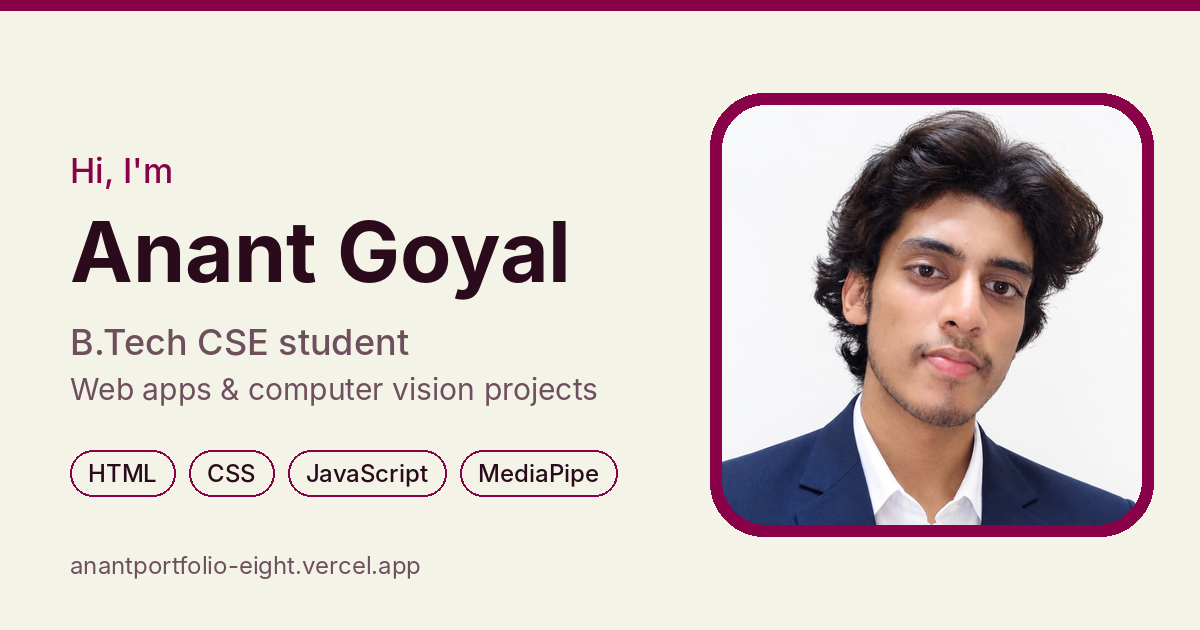
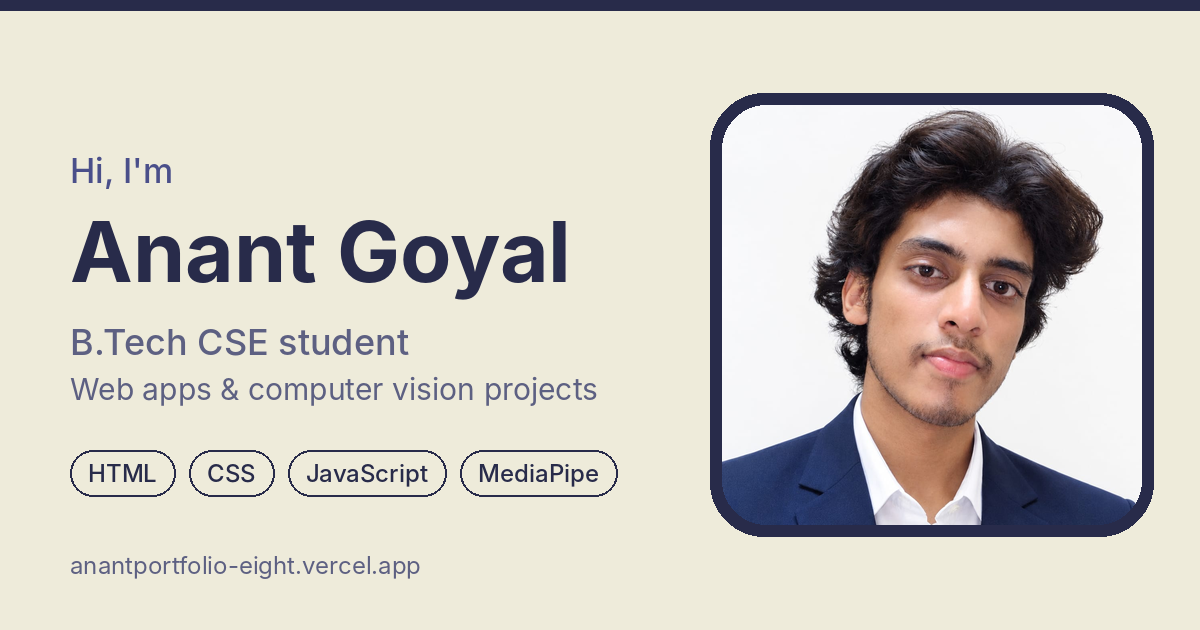
Switch palette to Midnight Indigo + Vanilla
Claude-Session: https://claude.ai/code/session_011E42H1WkRXJ2XLUoMEojoR

diff --git a/style.css b/style.css
@@ -1,31 +1,31 @@
-/* Palette: Cherry #890149 + Alabaster #F3F3E7 */
+/* Palette: Midnight Indigo #282B4A + Vanilla #EEEBDA */
 :root,
 [data-theme="dark"]{
-  --bg:#1a0711; --bg2:#26101b; --text:#f3f3e7; --muted:#c7aebb;
-  --accent:#e8628f; --accent2:#d9a7b8; --accent3:#c9a24a; --border:#43202f;
-  --accent-rgb:232,98,143; --accent2-rgb:217,167,184; --accent3-rgb:201,162,74;
-  --nav-bg:rgba(26,7,17,.85);
-  --tag-bg:#321725;
-  --bar-track:#321725;
-  --heat-empty:#321725;
+  --bg:#282b4a; --bg2:#32365c; --text:#eeebda; --muted:#b9b9cf;
+  --accent:#eeebda; --accent2:#a9aee0; --accent3:#d8b98a; --border:#434879;
+  --accent-rgb:238,235,218; --accent2-rgb:169,174,224; --accent3-rgb:216,185,138;
+  --nav-bg:rgba(40,43,74,.85);
+  --tag-bg:#3a3f6b;
+  --bar-track:#3a3f6b;
+  --heat-empty:#3a3f6b;
   --heat-1:#0e4429; --heat-2:#006d32; --heat-3:#26a641; --heat-4:#39d353;
-  --skel-base:#321725; --skel-shine:rgba(255,255,255,.06);
-  --btn-text:#1a0711; --btn-shadow:#8c2d55; --ghost-shadow:#33172a;
-  --h1-shadow:1px 1px 0 #6b1b43,2px 2px 0 #5c173a,3px 3px 0 #4d1331,4px 4px 0 #3f0f29,5px 8px 18px rgba(0,0,0,.55);
+  --skel-base:#3a3f6b; --skel-shine:rgba(255,255,255,.06);
+  --btn-text:#282b4a; --btn-shadow:#a9a68f; --ghost-shadow:#1f2140;
+  --h1-shadow:1px 1px 0 #4a4f8a,2px 2px 0 #40457b,3px 3px 0 #363a6b,4px 4px 0 #2d305b,5px 8px 18px rgba(0,0,0,.45);
   color-scheme:dark;
 }
 [data-theme="light"]{
-  --bg:#f3f3e7; --bg2:#fbfaf3; --text:#2a0b1b; --muted:#6e4f5e;
-  --accent:#890149; --accent2:#9e2a5e; --accent3:#a07a1e; --border:#ddd6c6;
-  --accent-rgb:137,1,73; --accent2-rgb:158,42,94; --accent3-rgb:160,122,30;
-  --nav-bg:rgba(243,243,231,.9);
-  --tag-bg:#ebe8d9;
-  --bar-track:#e6e2d2;
+  --bg:#eeebda; --bg2:#f7f5ea; --text:#282b4a; --muted:#5d6082;
+  --accent:#282b4a; --accent2:#4a4f8a; --accent3:#8a6d3b; --border:#d6d2ba;
+  --accent-rgb:40,43,74; --accent2-rgb:74,79,138; --accent3-rgb:138,109,59;
+  --nav-bg:rgba(238,235,218,.9);
+  --tag-bg:#e4e0c9;
+  --bar-track:#dcd8c2;
   --heat-empty:#ebedf0;
   --heat-1:#9be9a8; --heat-2:#40c463; --heat-3:#30a14e; --heat-4:#216e39;
-  --skel-base:#e6e2d2; --skel-shine:rgba(255,255,255,.7);
-  --btn-text:#f3f3e7; --btn-shadow:#5a0230; --ghost-shadow:#cfc8b6;
-  --h1-shadow:1px 1px 0 #ecd3dd,2px 2px 0 #e2bccb,3px 3px 0 #d6a5b8,4px 4px 0 #c88ea5,5px 8px 18px rgba(0,0,0,.08);
+  --skel-base:#dcd8c2; --skel-shine:rgba(255,255,255,.7);
+  --btn-text:#eeebda; --btn-shadow:#14162b; --ghost-shadow:#c9c5ac;
+  --h1-shadow:1px 1px 0 #d9d9e8,2px 2px 0 #c9cae0,3px 3px 0 #b9bbd8,4px 4px 0 #a9acd0,5px 8px 18px rgba(0,0,0,.08);
   color-scheme:light;
 }
 *{box-sizing:border-box;margin:0;padding:0}
@@ -261,7 +261,7 @@ html,body{overflow-x:clip}
 .photo-frame::before{content:"";position:absolute;inset:-14px;border:1.5px solid rgba(var(--accent-rgb),.28);border-radius:30px;transform:translateZ(-40px);pointer-events:none}
 .photo-frame img{transform:translateZ(24px);box-shadow:0 16px 30px rgba(0,0,0,.4)}
 .chip{position:absolute;padding:5px 12px;border-radius:999px;font-size:.78rem;font-weight:600;color:var(--text);
-  background:rgba(38,16,27,.88);border:1px solid rgba(var(--accent-rgb),.4);box-shadow:0 10px 22px rgba(0,0,0,.4);
+  background:rgba(50,54,92,.88);border:1px solid rgba(var(--accent-rgb),.4);box-shadow:0 10px 22px rgba(0,0,0,.4);
   backdrop-filter:blur(6px);transform:translateZ(70px);animation:chipbob 5s ease-in-out infinite;white-space:nowrap}
 [data-theme="light"] .chip{background:rgba(255,255,255,.92);border-color:rgba(var(--accent-rgb),.35)}
 .chip.c1{top:22px;right:-22px}

diff --git a/photo-assemble.js b/photo-assemble.js
@@ -11,7 +11,7 @@
   var running = false;
   var rand = function (a, b) { return a + Math.random() * (b - a); };
 
-  var COLORS = ['#e8628f', '#d9a7b8', '#c9a24a', '#b3125f'];
+  var COLORS = ['#7a80c9', '#a9aee0', '#d8b98a', '#5a60b0'];
 
   function orbPhase(cb) {
     var fr = frame.getBoundingClientRect();
